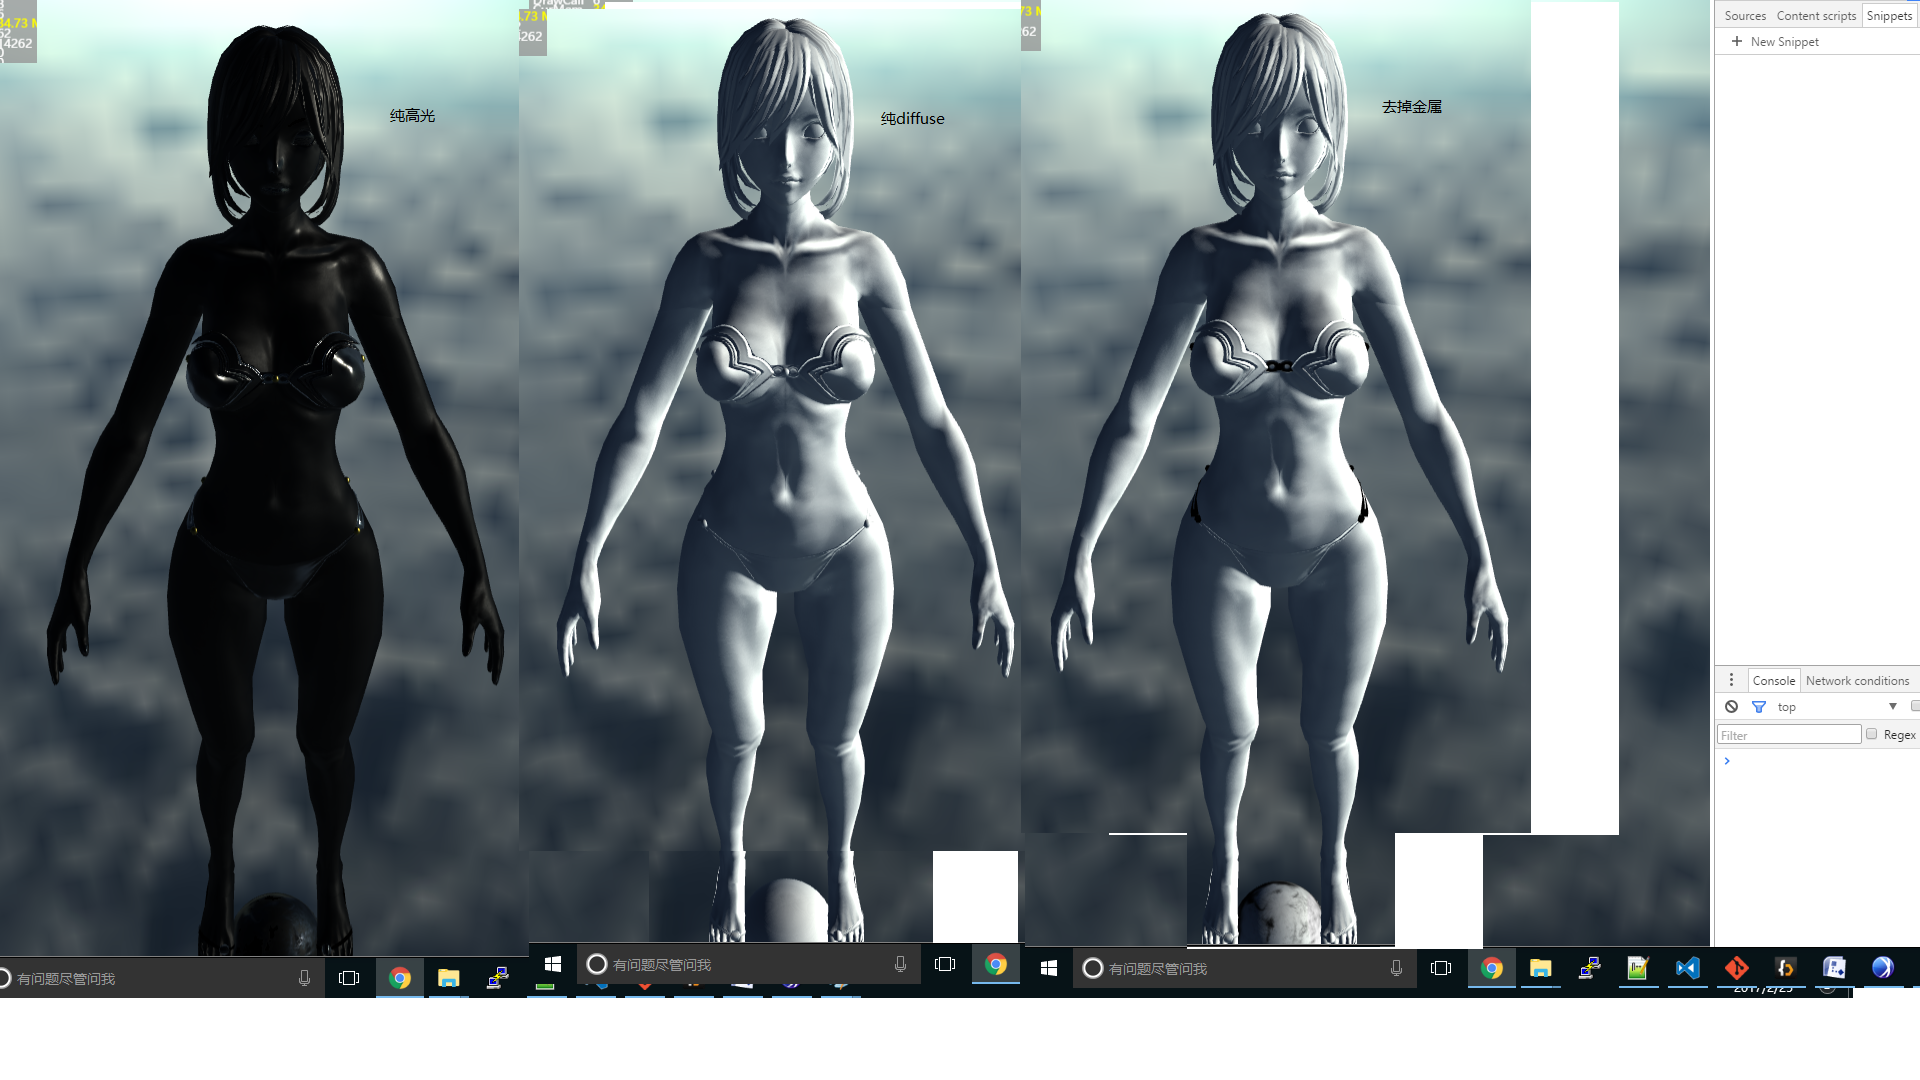
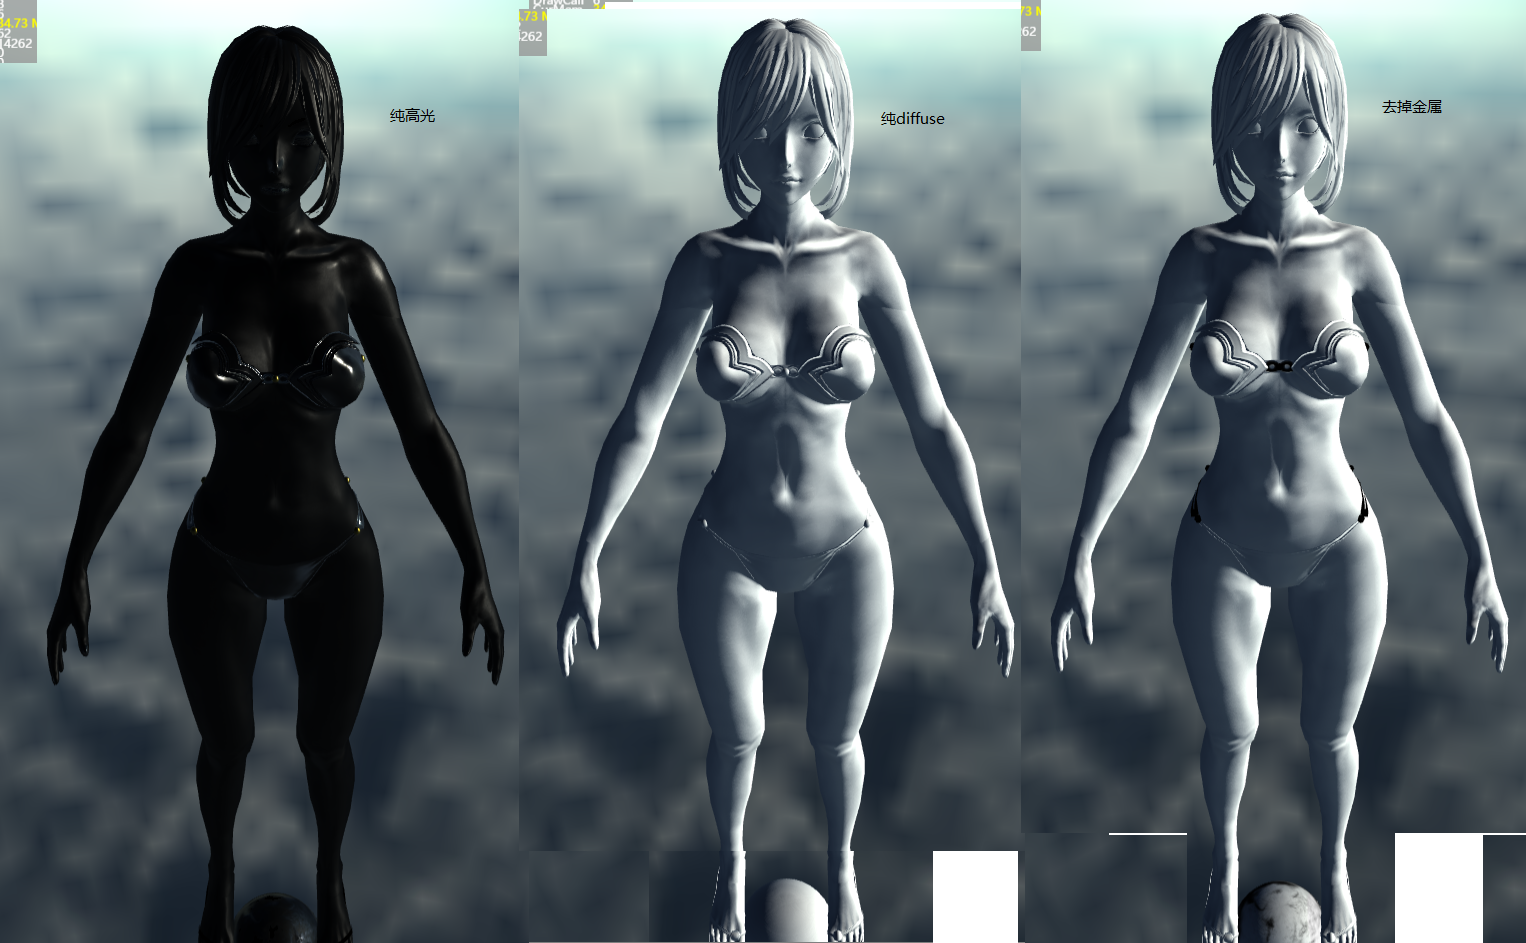
...

diff --git a/model.ts b/model.ts
@@ -706,11 +706,23 @@ class MeshGeo{
         var du1=verts[uv2]-verts[uv0]; var dv1 = verts[uv2+1]-verts[uv0+1];
         var tx = -dx0*dv1+dx1*dv0; var ty = -dy0*dv1+dy1*dv0; var tz = -dz0*dv1+dz1*dv0;
         var bx = dx0*du1-dx1*du0; var by = dy0*du1-dy1*du0; var bz = dz0*du1-dz1*du0;
-        var tlen = Math.sqrt( tx*tx+ty*ty+tz*tz); if(tlen<1e-5)tlen=0.001;
-        var blen = Math.sqrt( bx*bx+by*by+bz*bz); if(blen<1e-5)blen=0.001;
+        var tlen = Math.sqrt( tx*tx+ty*ty+tz*tz);
+        var blen = Math.sqrt( bx*bx+by*by+bz*bz);
         //out
-        outverts[tangent]=tx/tlen; outverts[tangent+1]=ty/tlen; outverts[tangent+2]=tz/tlen;
-        outverts[binormal]=bx/blen; outverts[binormal+1]=by/blen; outverts[binormal+2]=bz/blen;
+        if(tlen<1e-5){
+            outverts[tangent]=0; outverts[tangent+1]=0; outverts[tangent+2]=0;
+            return false;
+        }else{
+            outverts[tangent]=tx/tlen; outverts[tangent+1]=ty/tlen; outverts[tangent+2]=tz/tlen;
+        }
+
+        if(blen<1e-5){
+            outverts[binormal]=0; outverts[binormal+1]=0; outverts[binormal+2]=0;
+            return false;
+        }else{
+            outverts[binormal]=bx/blen; outverts[binormal+1]=by/blen; outverts[binormal+2]=bz/blen;
+        }
+        return true;
     }
 
     vec3_cross(vb:Float32Array, v0:number, v1:number){
@@ -731,6 +743,13 @@ class MeshGeo{
 
     vec3_normalize(vb:Float32Array, v0){
         var l = this.vec3_length(vb,v0);
+        if(l<1e-5){
+            //debugger;
+            vb[v0]=0;
+            vb[v0+1]=0;
+            vb[v0+2]=0;
+            return;
+        }
         vb[v0]/=l;
         vb[v0+1]/=l;
         vb[v0+2]/=l;
@@ -748,26 +767,37 @@ class MeshGeo{
     calcTangent(){
         var ret={tan:new Float32Array(this.vertexnum*3), binor:new Float32Array(this.vertexnum*3)};
         this.vertexes.forEach((v,i)=>{
+            if(i==2134){
+                
+            }
             var sum=0;
+            //
             var outarr = new Float32Array(6).fill(0);
-            v.face.forEach((ef)=>{
+            v.face.forEach((ef,fi)=>{
                 var cout = new Float32Array(6);
                 var v0=this.ib[ef*3];
                 var v1=this.ib[ef*3+1];
                 var v2=this.ib[ef*3+2];
+                if(v1==i){
+                    [v0,v1]=[v1,v0];
+                }
+                else if(v2==i){
+                    [v0,v2]=[v2,v0];
+                }
                 var v0p = v0*this.fstride;
                 var v1p = v1*this.fstride;
                 var v2p = v2*this.fstride;
-                this._calcTangent(this.vb,
+                if(!this._calcTangent(this.vb,
                     v0p, v1p,v2p,
                     v0p+this.uvfoff, v1p+this.uvfoff,v2p+this.uvfoff,
-                    null,cout,0,3);
+                    null,cout,0,3))
+                    return ;
                 var dbuff = this.tmpMem1;
-                dbuff[0]=this.vb[v1p]-this.vb[v0p];//dx
+                dbuff[0]=this.vb[v1p  ]-this.vb[v0p  ];//dx
                 dbuff[1]=this.vb[v1p+1]-this.vb[v0p+1];//dy
                 dbuff[2]=this.vb[v1p+2]-this.vb[v0p+2];//dz
 
-                dbuff[3]=this.vb[v2p]-this.vb[v0p];//dx1
+                dbuff[3]=this.vb[v2p  ]-this.vb[v0p  ];//dx1
                 dbuff[4]=this.vb[v2p+1]-this.vb[v0p+1];//dy1
                 dbuff[5]=this.vb[v2p+2]-this.vb[v0p+2];//dz1
                 this.vec3_cross(dbuff,0,3);
@@ -777,11 +807,16 @@ class MeshGeo{
                 }
                 sum+=l;
             });
+            /*
             for(var oi=0; oi<6; oi++){
                 outarr[oi]=outarr[oi]/sum;
             }
+            */
             this.vec3_normalize(outarr,0);
             this.vec3_normalize(outarr,3);
+            if(i>=2100 && i<2200){
+                outarr.fill(0);
+            }
             this.vec3_copy(ret.tan,i*3, outarr,0);
             this.vec3_copy(ret.binor,i*3, outarr,3);
         });
